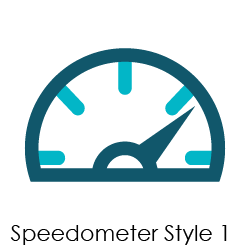
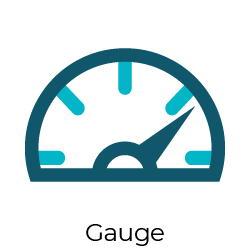
LH-3119 Gauge chart updates (#3681)
* LH-3119 Gauge chart updates

* minor fix

Changed region(s): [[0.028, 0.896, 0.868, 1.0], [0.896, 0.896, 0.924, 0.98]]

diff --git a/app/frontend/modules/reports/components/modules/Graph/components/Charts/Gauge/Properties.jsx b/app/frontend/modules/reports/components/modules/Graph/components/Charts/Gauge/Properties.jsx
@@ -27,6 +27,12 @@ class Properties extends Component {
     this.update()
   }
 
+  changeMaxValue = (val) => {
+    const { model } = this.props
+    model.props.maxValue = val
+    this.update()
+  }
+
   changeColorProperty = (propertyName, color) => {
     const { model } = this.props
     model.props[propertyName] = color.hex
@@ -36,7 +42,7 @@ class Properties extends Component {
   render () {
     const { model } = this.props
     const {
-      speedometerBackgroundColor, speedometerMainColor, labelVerticalPosition, speedometerSize,
+      speedometerBackgroundColor, speedometerMainColor, labelVerticalPosition, speedometerSize, maxValue,
     } = model.props
     return (
       <div>
@@ -70,6 +76,16 @@ class Properties extends Component {
         <div className={styles.block}>
           Speedometer Size
           <ChoicesInput value={parseInt(speedometerSize, 10)} onChange={this.changeSize} minValue={40} maxValue={200} />
+        </div>
+        <hr className={styles.divider} />
+        <div className={styles.block}>
+          Max Value
+          <ChoicesInput
+            value={parseInt(maxValue, 10) || 6}
+            onChange={this.changeMaxValue}
+            minValue={0}
+            maxValue={1000}
+          />
         </div>
       </div>
     )

diff --git a/app/frontend/modules/reports/components/modules/Graph/components/Charts/Gauge/Gauge.jsx b/app/frontend/modules/reports/components/modules/Graph/components/Charts/Gauge/Gauge.jsx
@@ -40,7 +40,7 @@ class Gauge extends Component {
   }
 
   renderChart (factor) {
-    const { model, animation } = this.props
+    const { model, animation, colorOverrides } = this.props
     const { fontSize, fontColor: color, fontFamily } = model.props.style
     const data = Series[model.getSourceType()]
     const series = data.series(getCorrectResults(model), factor, model)
@@ -50,7 +50,7 @@ class Gauge extends Component {
     Highcharts.chart(this[`container${factor.id || factor}`], Highcharts.merge(ChartOptions(model), {
       plotOptions: {
         series: {
-          colors: [props.speedometerMainColor],
+          colors: colorOverrides ? _.map(colorOverrides, 'color') : [props.speedometerMainColor],
           animation,
         },
       },

diff --git a/app/frontend/modules/reports/components/modules/Graph/components/Graph.jsx b/app/frontend/modules/reports/components/modules/Graph/components/Graph.jsx
@@ -18,11 +18,15 @@ class Graph extends Component {
     const {
       factors, module: model, preview, animation,
     } = this.props
+    let colorOverrides = null
     if (model.textConditions.length > 0) {
       const {
         colors,
       } = model.getStylesByCondition()
-      if (colors) model.props.colors = colors
+      if (colors) {
+        model.props.colors = colors
+        colorOverrides = colors
+      }
     }
     if (model.props.type) {
       const View = Charts[model.props.type] || Charts.Bar
@@ -32,6 +36,7 @@ class Graph extends Component {
           model={model}
           preview={preview}
           animation={animation}
+          colorOverrides={colorOverrides}
         />
       )
     }

diff --git a/app/frontend/modules/reports/components/modules/Graph/components/Charts/Gauge/ChartOptions.js b/app/frontend/modules/reports/components/modules/Graph/components/Charts/Gauge/ChartOptions.js
@@ -13,7 +13,7 @@ export default function ChartOptions (model) {
     },
     yAxis: {
       min: 0,
-      max: 6,
+      max: model.props.maxValue || 6,
       lineWidth: 0,
       tickInterval: 6,
       labels: {
